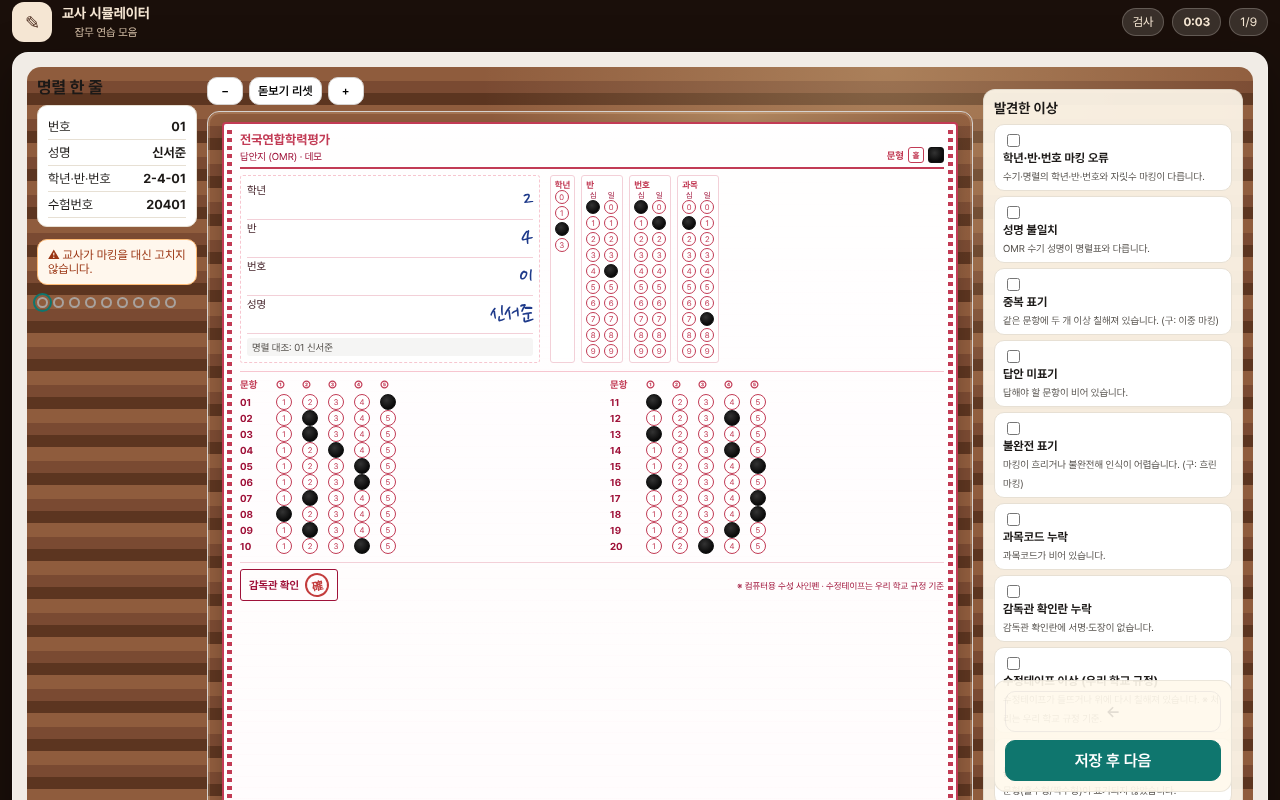
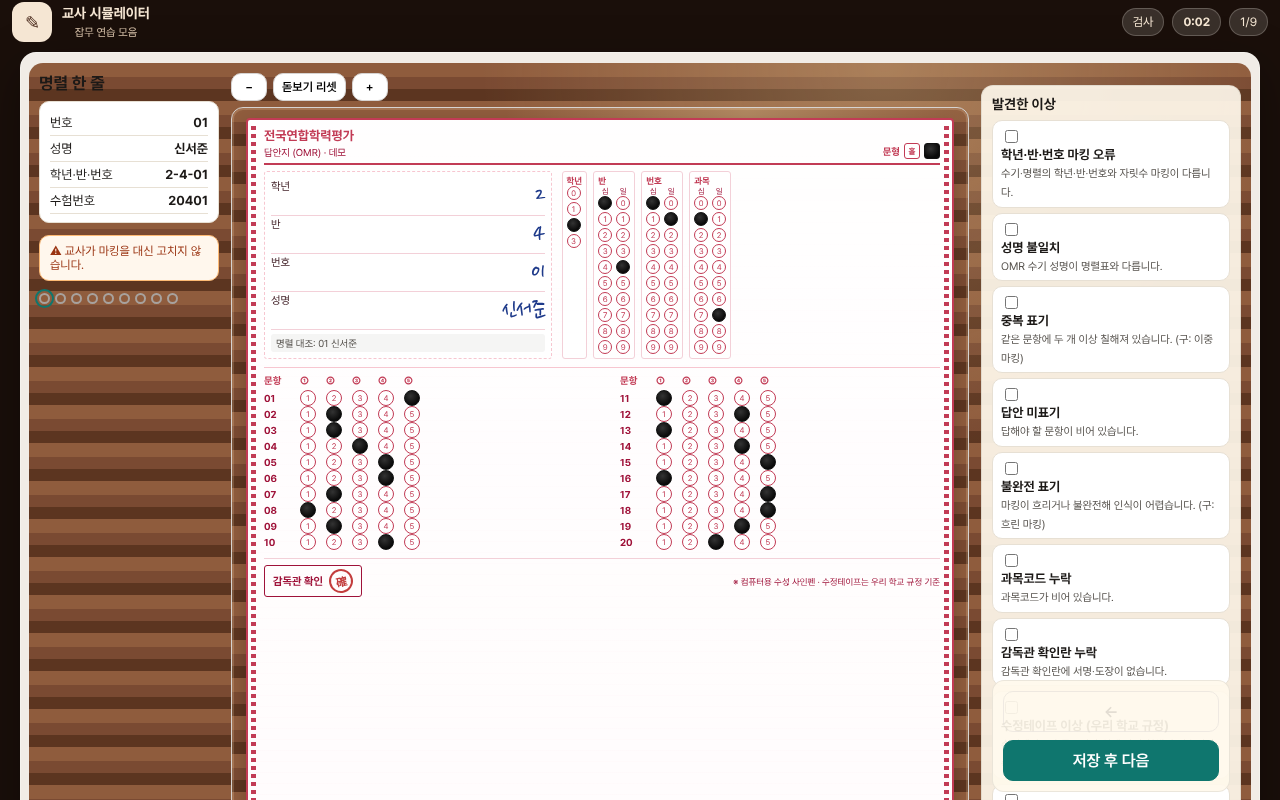
Round 0026: inspection layout fill and larger judge type
- Tighter 1280 inspection stage; sorting remains full-bleed
- Wider center column, taller zoom viewport, bigger checklist type

Changed region(s): [[0.0, 0.0625, 1.0, 1.0], [0.8438, 0.9375, 0.9062, 0.9688]]

diff --git a/src/style.css b/src/style.css
@@ -943,4 +943,40 @@ kbd {
   border-top: 1px dashed #e7e0d4;
 }
 .hub-panel { justify-content: flex-start; }
-.stage-hub .shell-main, .stage-hub #app > .panel { min-height: calc(100vh - 64px); }
+.app-root.stage-hub .stage .hub-panel { min-height: calc(100vh - 72px); }
+
+/* 0026 inspect fill */
+.app-root.stage-inspection,
+.app-root.stage-sorting {
+  max-width: 100%;
+}
+.app-root.stage-inspection .stage {
+  max-width: 1280px;
+  width: 100%;
+  margin: 0 auto;
+  padding-left: 8px;
+  padding-right: 8px;
+}
+.app-root.stage-sorting .stage {
+  max-width: none;
+  width: 100%;
+  margin: 0;
+  padding: 0;
+}
+.app-root.stage-inspection .inspection-panel {
+  max-width: none;
+  padding: 10px 8px 16px;
+}
+.inspect-layout {
+  grid-template-columns: 180px minmax(0, 1fr) 260px !important;
+  gap: 12px !important;
+  min-height: calc(100vh - 100px) !important;
+}
+.check-body strong, .disp strong { font-size: 13px !important; }
+.check-body small, .disp small { font-size: 11px !important; }
+.zoom-viewport {
+  min-height: 620px !important;
+  height: min(82vh, 760px) !important;
+}
+.sorting-desk { max-width: none; }
+.desk-table { max-width: none; }

diff --git a/docs/issues/0026-inspect-layout-fill.md b/docs/issues/0026-inspect-layout-fill.md
@@ -1,0 +1,12 @@
+# 0026 Inspection layout fill · stage width
+
+## Critique
+
+- 08 left/right gutters of empty wood outside the three columns.
+- Judge checklist text a bit small.
+
+## Fixes
+
+1. Inspection stage capped at 1280 with tighter padding; sorting stays full-bleed desk.
+2. Inspect grid columns 180 / 1fr / 260; taller zoom viewport (~82vh).
+3. Slightly larger check/disp label type.

diff --git a/docs/ROUNDLOG.md b/docs/ROUNDLOG.md
@@ -8,3 +8,6 @@
 | ~00:12 | 0021–0022 | Results meters, kbd hints, wood noise |
 | ~00:13 | 0023 | Diff icons, drag-over, a11y |
 | (cont.) | 0024+ | Density, residual critique, final report prep |
+
+| ~00:42 | 0025 | Sticky, tray contrast, hub foot |
+| ~00:43 | 0026 | Inspect layout fill |
